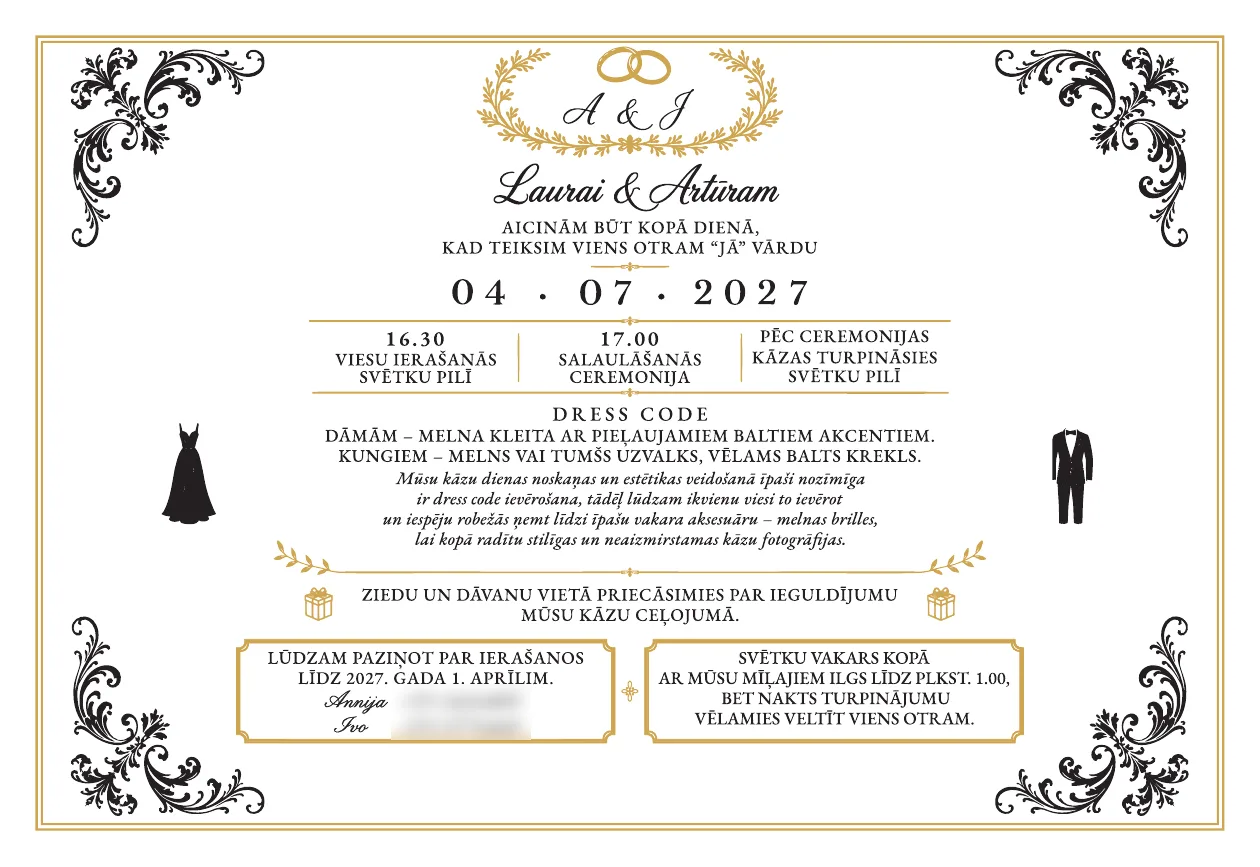
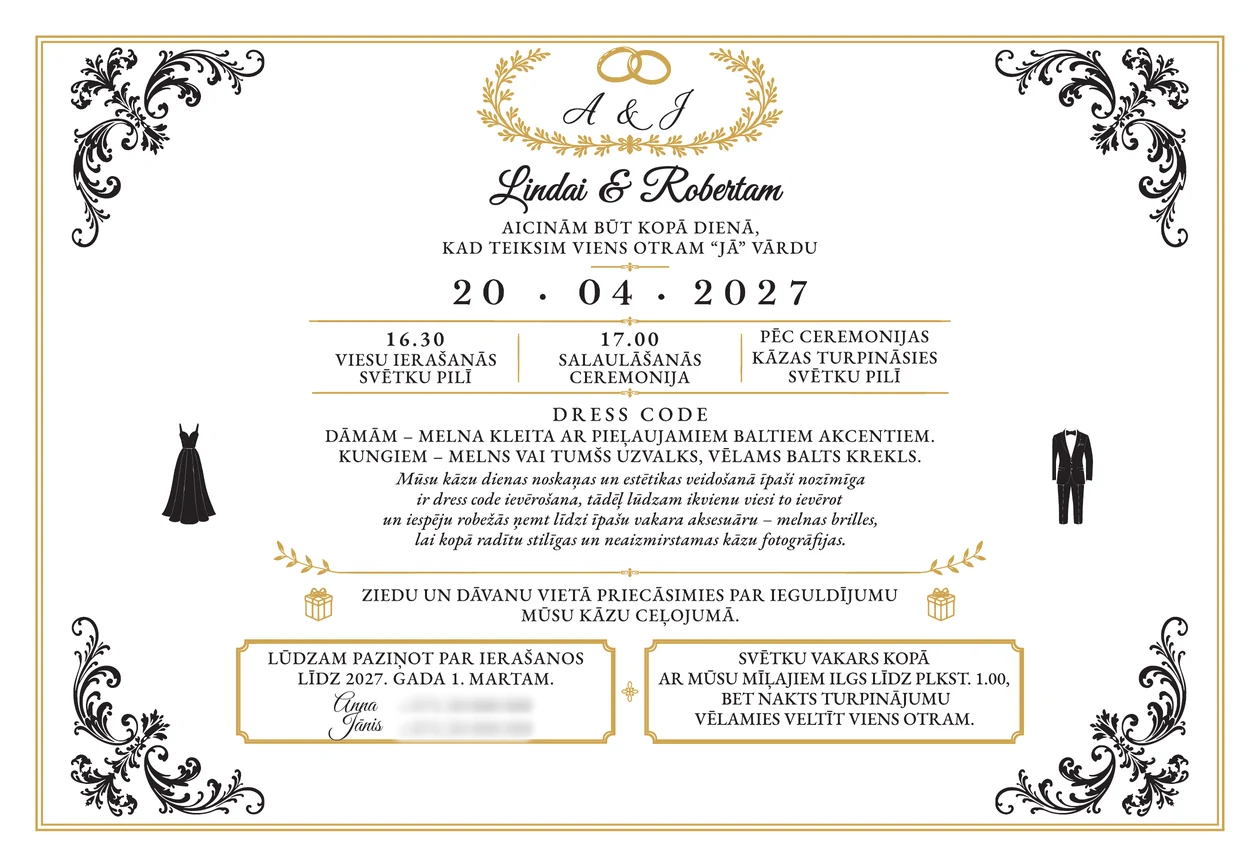
Invitations: fictional names/dates/address, new QR to site, vector-graphics labels, remove foil wording (LV/RU/EN)

diff --git a/assets/app.js b/assets/app.js
@@ -1,6 +1,10 @@
 (function(){
 var T={
 lv:{
+"gv.vecnote":"<b>Vektorgrafika</b> — ielūgumu dizains vektoru formātā: asas līnijas jebkurā izmērā, faili sagatavoti drukai (PDF/X-4, 160×110 mm).",
+"gv.inv2alt":"Kāzu ielūguma dizains, vektorgrafika — 2. puse",
+"gv.inv1alt":"Kāzu ielūguma dizains, vektorgrafika — 1. puse",
+"gv.vectag":"Vektorgrafika",
 "so.3alt":"Mūsu mājas lapas ekrānuzņēmums — AI studijas sākumlapa",
 "ab.fmt.p":"Attālināti visā Latvijā un ārzemēs. Bezmaksas konsultācija un prototips, rezultāts 24–48 h.",
 "ab.fmt":"Darba formāts",
@@ -43,8 +47,8 @@ lv:{
 "gv.h":"Vizuāļi, video, grafika","gv.sub":"Darbu piemēri: reklāmas vizuāļi, AI video un dizaina sagatavošana drukai. Noklikšķiniet uz attēla, lai palielinātu.",
 "gv.vtag":"AI video","gv.vnote":"<b>AI video</b> — veidots ar mākslīgo intelektu, bez filmēšanas. Ievērojami ietaupa jūsu budžetu filmēšanai, aktieriem un lokācijai.","gv.v1":"Reklāma aprūpes pakalpojumiem — aprūpe mājās","gv.v2":"Reklāma aprūpes pakalpojumiem — pastaiga Jūrmalā","gv.vmeta":"Latviešu valodas balss · mūzika · 8 s · 4:5 (Meta)",
 "gv.adtag":"Reklāmas vizuāļa koncepts (Meta)","gv.ad1":"Meta reklāmas vizuāļi senioru aprūpes pakalpojumam — “Mamma ir drošībā”","gv.ad2":"Meta reklāmas vizuāļi senioru aprūpes pakalpojumam — aprūpe mājās","gv.ad3":"Meta reklāmas vizuāļi senioru aprūpes pakalpojumam — pastaiga Jūrmalā",
-"gv.invtag":"Druka · zelta folija · PDF/X-4","gv.inv1":"Ielūgums ar zelta foliju — sagatavošana drukai, PDF/X-4 (1. puse)","gv.inv2":"Ielūgums ar zelta foliju — sagatavošana drukai, PDF/X-4 (2. puse)",
-"gv.note":"Reklāmas vizuāļi ir koncepti; foto ģenerēti ar AI, teksti latviešu valodā. Ielūgumam sagatavoti atsevišķi slāņi: melnā krāsa (K) un folija (spot), 160×110 mm.",
+"gv.inv1":"Ielūgumu dizains — vektorgrafika (1. puse)","gv.inv2":"Ielūgumu dizains — vektorgrafika (2. puse)",
+"gv.note":"Reklāmas vizuāļi ir koncepti; foto ģenerēti ar AI, teksti latviešu valodā. Ielūgumu paraugos vārdi, datumi, adrese un QR kods aizstāti ar izdomātiem.",
 "ab.h":"Par studiju","ab.p1":"Esam neliela AI studija no Latvijas. Veidojam AI čatbotus, automatizāciju un mājas lapas, kas ietaupa laiku un palīdz neizlaist klientus.",
 "ab.p2":"Kā arī AI saturs reklāmai: video bez filmēšanas, balss ierunāšana un mūzika, reklāmas vizuāļi, teksti, dizains un maketi drukai, SEO un sociālie tīkli. Strādājam attālināti visā Latvijā un ārzemēs.",
 "ab.lang":"Valodas",
@@ -54,6 +58,10 @@ lv:{
 "c.phone":"Tālrunis","c.email":"E-pasts","c.tg":"Telegram","c.gp":"GetaPro profils","c.li":"LinkedIn","c.ph":"aizpildīt"
 },
 ru:{
+"gv.vecnote":"<b>Векторная графика</b> — дизайн приглашений в векторном формате: чёткие линии в любом размере, файлы подготовлены к печати (PDF/X-4, 160×110 мм).",
+"gv.inv2alt":"Дизайн свадебного приглашения, векторная графика — сторона 2",
+"gv.inv1alt":"Дизайн свадебного приглашения, векторная графика — сторона 1",
+"gv.vectag":"Векторная графика",
 "so.3alt":"Скриншот нашего сайта — главная страница ИИ-студии",
 "ab.fmt.p":"Удалённо по всей Латвии и за рубежом. Бесплатная консультация и прототип, результат за 24–48 часов.",
 "ab.fmt":"Формат работы",
@@ -96,8 +104,8 @@ ru:{
 "gv.h":"Визуалы, видео, графика","gv.sub":"Примеры работ: рекламные визуалы, ИИ-видео и подготовка дизайна к печати. Нажмите на изображение, чтобы увеличить.",
 "gv.vtag":"ИИ-видео","gv.vnote":"<b>ИИ-видео</b> — создано искусственным интеллектом, без съёмок. Существенно экономит ваши деньги на съёмку, актёров и локацию.","gv.v1":"Реклама услуг по уходу — уход на дому","gv.v2":"Реклама услуг по уходу — прогулка в Юрмале","gv.vmeta":"Голос на латышском · музыка · 8 с · 4:5 (Meta)",
 "gv.adtag":"Концепт рекламного визуала (Meta)","gv.ad1":"Рекламные визуалы Meta для услуги ухода за пожилыми — «Мама в безопасности»","gv.ad2":"Рекламные визуалы Meta для услуги ухода за пожилыми — уход на дому","gv.ad3":"Рекламные визуалы Meta для услуги ухода за пожилыми — прогулка в Юрмале",
-"gv.invtag":"Печать · золотая фольга · PDF/X-4","gv.inv1":"Приглашение с золотой фольгой — подготовка к печати, PDF/X-4 (сторона 1)","gv.inv2":"Приглашение с золотой фольгой — подготовка к печати, PDF/X-4 (сторона 2)",
-"gv.note":"Рекламные визуалы — концепты; фото сгенерированы ИИ, тексты на латышском. Для приглашения подготовлены отдельные слои: чёрный (K) и фольга (spot), 160×110 мм.",
+"gv.inv1":"Дизайн приглашений — векторная графика (сторона 1)","gv.inv2":"Дизайн приглашений — векторная графика (сторона 2)",
+"gv.note":"Рекламные визуалы — концепты; фото сгенерированы ИИ, тексты на латышском. В образцах приглашений имена, даты, адрес и QR-код заменены на вымышленные.",
 "ab.h":"О студии","ab.p1":"Мы — небольшая ИИ-студия из Латвии. Делаем ИИ-чат-ботов, автоматизацию и сайты, которые экономят время и помогают не терять клиентов.",
 "ab.p2":"А также ИИ-контент для рекламы: видео без съёмок, озвучка и музыка, рекламные визуалы, тексты, дизайн и макеты для печати, SEO и соцсети. Работаем удалённо по всей Латвии и за рубежом.",
 "ab.lang":"Языки",
@@ -107,6 +115,10 @@ ru:{
 "c.phone":"Телефон","c.email":"E-mail","c.tg":"Telegram","c.gp":"Профиль GetaPro","c.li":"LinkedIn","c.ph":"заполнить"
 },
 en:{
+"gv.vecnote":"<b>Vector graphics</b> — invitation design in vector format: crisp lines at any size, print-ready files (PDF/X-4, 160×110 mm).",
+"gv.inv2alt":"Wedding invitation design, vector graphics — side 2",
+"gv.inv1alt":"Wedding invitation design, vector graphics — side 1",
+"gv.vectag":"Vector graphics",
 "so.3alt":"Screenshot of our website — the AI studio home page",
 "ab.fmt.p":"Remote across Latvia and abroad. Free consultation and prototype, results within 24–48 h.",
 "ab.fmt":"How we work together",
@@ -149,8 +161,8 @@ en:{
 "gv.h":"Visuals, video, graphics","gv.sub":"Work samples: ad visuals, AI video and print-ready design prep. Click an image to enlarge.",
 "gv.vtag":"AI video","gv.vnote":"<b>AI video</b> — created with artificial intelligence, no film shoot needed. Saves you significant money on filming, actors and locations.","gv.v1":"Ad for elderly-care services — home care","gv.v2":"Ad for elderly-care services — a walk in Jūrmala","gv.vmeta":"Latvian voiceover · music · 8 s · 4:5 (Meta)",
 "gv.adtag":"Ad visual concept (Meta)","gv.ad1":"Meta ad visuals for an elderly-care service — “Mum is safe”","gv.ad2":"Meta ad visuals for an elderly-care service — home care","gv.ad3":"Meta ad visuals for an elderly-care service — a walk in Jūrmala",
-"gv.invtag":"Print · gold foil · PDF/X-4","gv.inv1":"Gold-foil invitation — print preparation, PDF/X-4 (side 1)","gv.inv2":"Gold-foil invitation — print preparation, PDF/X-4 (side 2)",
-"gv.note":"The ad visuals are concepts; photos are AI-generated, copy is in Latvian. The invitation was prepared with separate layers: black (K) and foil (spot), 160×110 mm.",
+"gv.inv1":"Invitation design — vector graphics (side 1)","gv.inv2":"Invitation design — vector graphics (side 2)",
+"gv.note":"The ad visuals are concepts; photos are AI-generated, copy is in Latvian. In the invitation samples, names, dates, address and QR code have been replaced with fictional ones.",
 "ab.h":"About the studio","ab.p1":"We're a small AI studio from Latvia. We build AI chatbots, automations and websites that save time and help you never miss a customer.",
 "ab.p2":"We also create AI content for ads: video without filming, voiceover and music, ad visuals, copywriting, design and print layouts, SEO and social media. We work remotely across Latvia and abroad.",
 "ab.lang":"Languages",

diff --git a/index.html b/index.html
@@ -199,9 +199,10 @@ window.CONFIG = {
       <figure class="vid"><div class="vbox"><video controls playsinline preload="none" poster="assets/video_care_1.webp" width="1080" height="1350"><source src="assets/video_care_1.mp4" type="video/mp4"></video></div><figcaption><span class="tag ai" data-i18n="gv.vtag"></span><b data-i18n="gv.v1"></b><small data-i18n="gv.vmeta"></small></figcaption></figure>
       <figure class="vid"><div class="vbox"><video controls playsinline preload="none" poster="assets/video_care_2.webp" width="1080" height="1350"><source src="assets/video_care_2.mp4" type="video/mp4"></video></div><figcaption><span class="tag ai" data-i18n="gv.vtag"></span><b data-i18n="gv.v2"></b><small data-i18n="gv.vmeta"></small></figcaption></figure>
     </div>
+    <div class="vhead"><span class="tag gold vec" data-i18n="gv.vectag"></span><p data-i18n="gv.vecnote"></p></div>
     <div class="gal inv">
-      <figure><a href="assets/invite_1.webp" class="lb" data-cap="gv.inv1"><img src="assets/invite_1_s.webp" loading="lazy" width="700" height="482" alt=""></a><figcaption><span class="tag gold" data-i18n="gv.invtag"></span><b data-i18n="gv.inv1"></b></figcaption></figure>
-      <figure><a href="assets/invite_2.webp" class="lb" data-cap="gv.inv2"><img src="assets/invite_2_s.webp" loading="lazy" width="700" height="482" alt=""></a><figcaption><span class="tag gold" data-i18n="gv.invtag"></span><b data-i18n="gv.inv2"></b></figcaption></figure>
+      <figure><a href="assets/invite_1.webp" class="lb" data-cap="gv.inv1"><img src="assets/invite_1_s.webp" loading="lazy" width="700" height="482" alt="" data-i18n-alt="gv.inv1alt"></a><figcaption><span class="tag gold vec" data-i18n="gv.vectag"></span><b data-i18n="gv.inv1"></b></figcaption></figure>
+      <figure><a href="assets/invite_2.webp" class="lb" data-cap="gv.inv2"><img src="assets/invite_2_s.webp" loading="lazy" width="700" height="482" alt="" data-i18n-alt="gv.inv2alt"></a><figcaption><span class="tag gold vec" data-i18n="gv.vectag"></span><b data-i18n="gv.inv2"></b></figcaption></figure>
     </div>
     <p class="note" data-i18n="gv.note"></p>
   </div>
